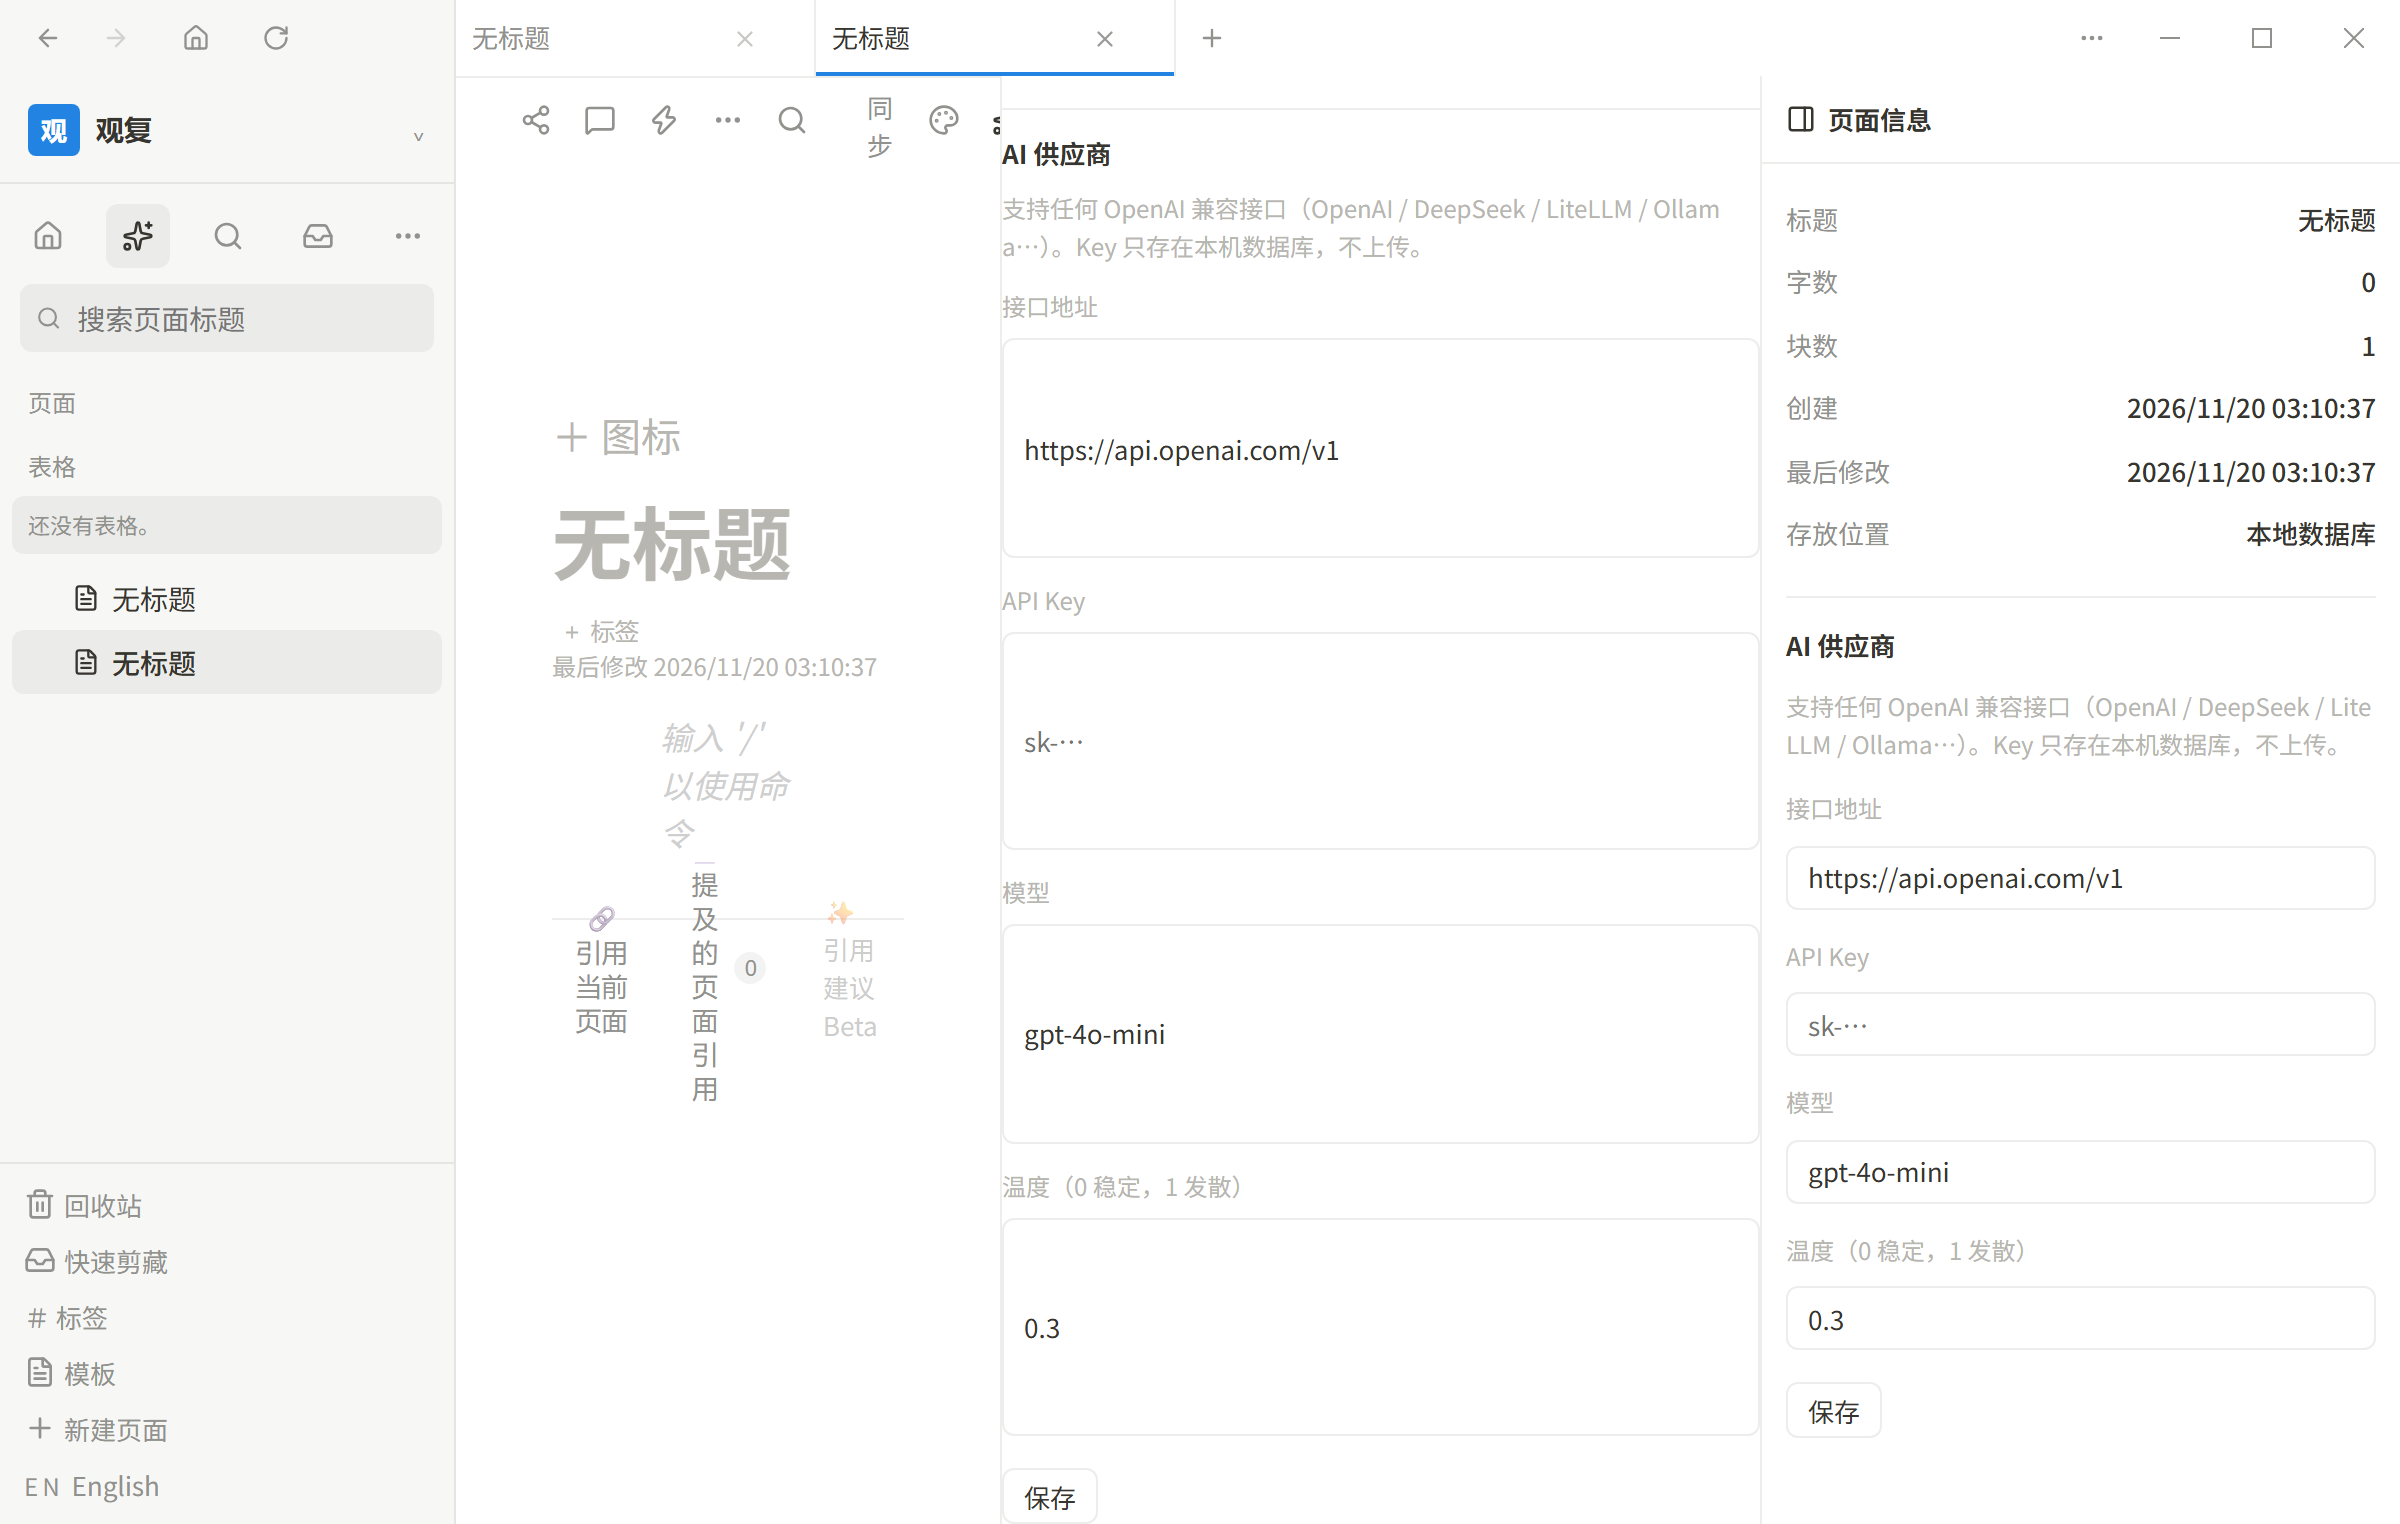
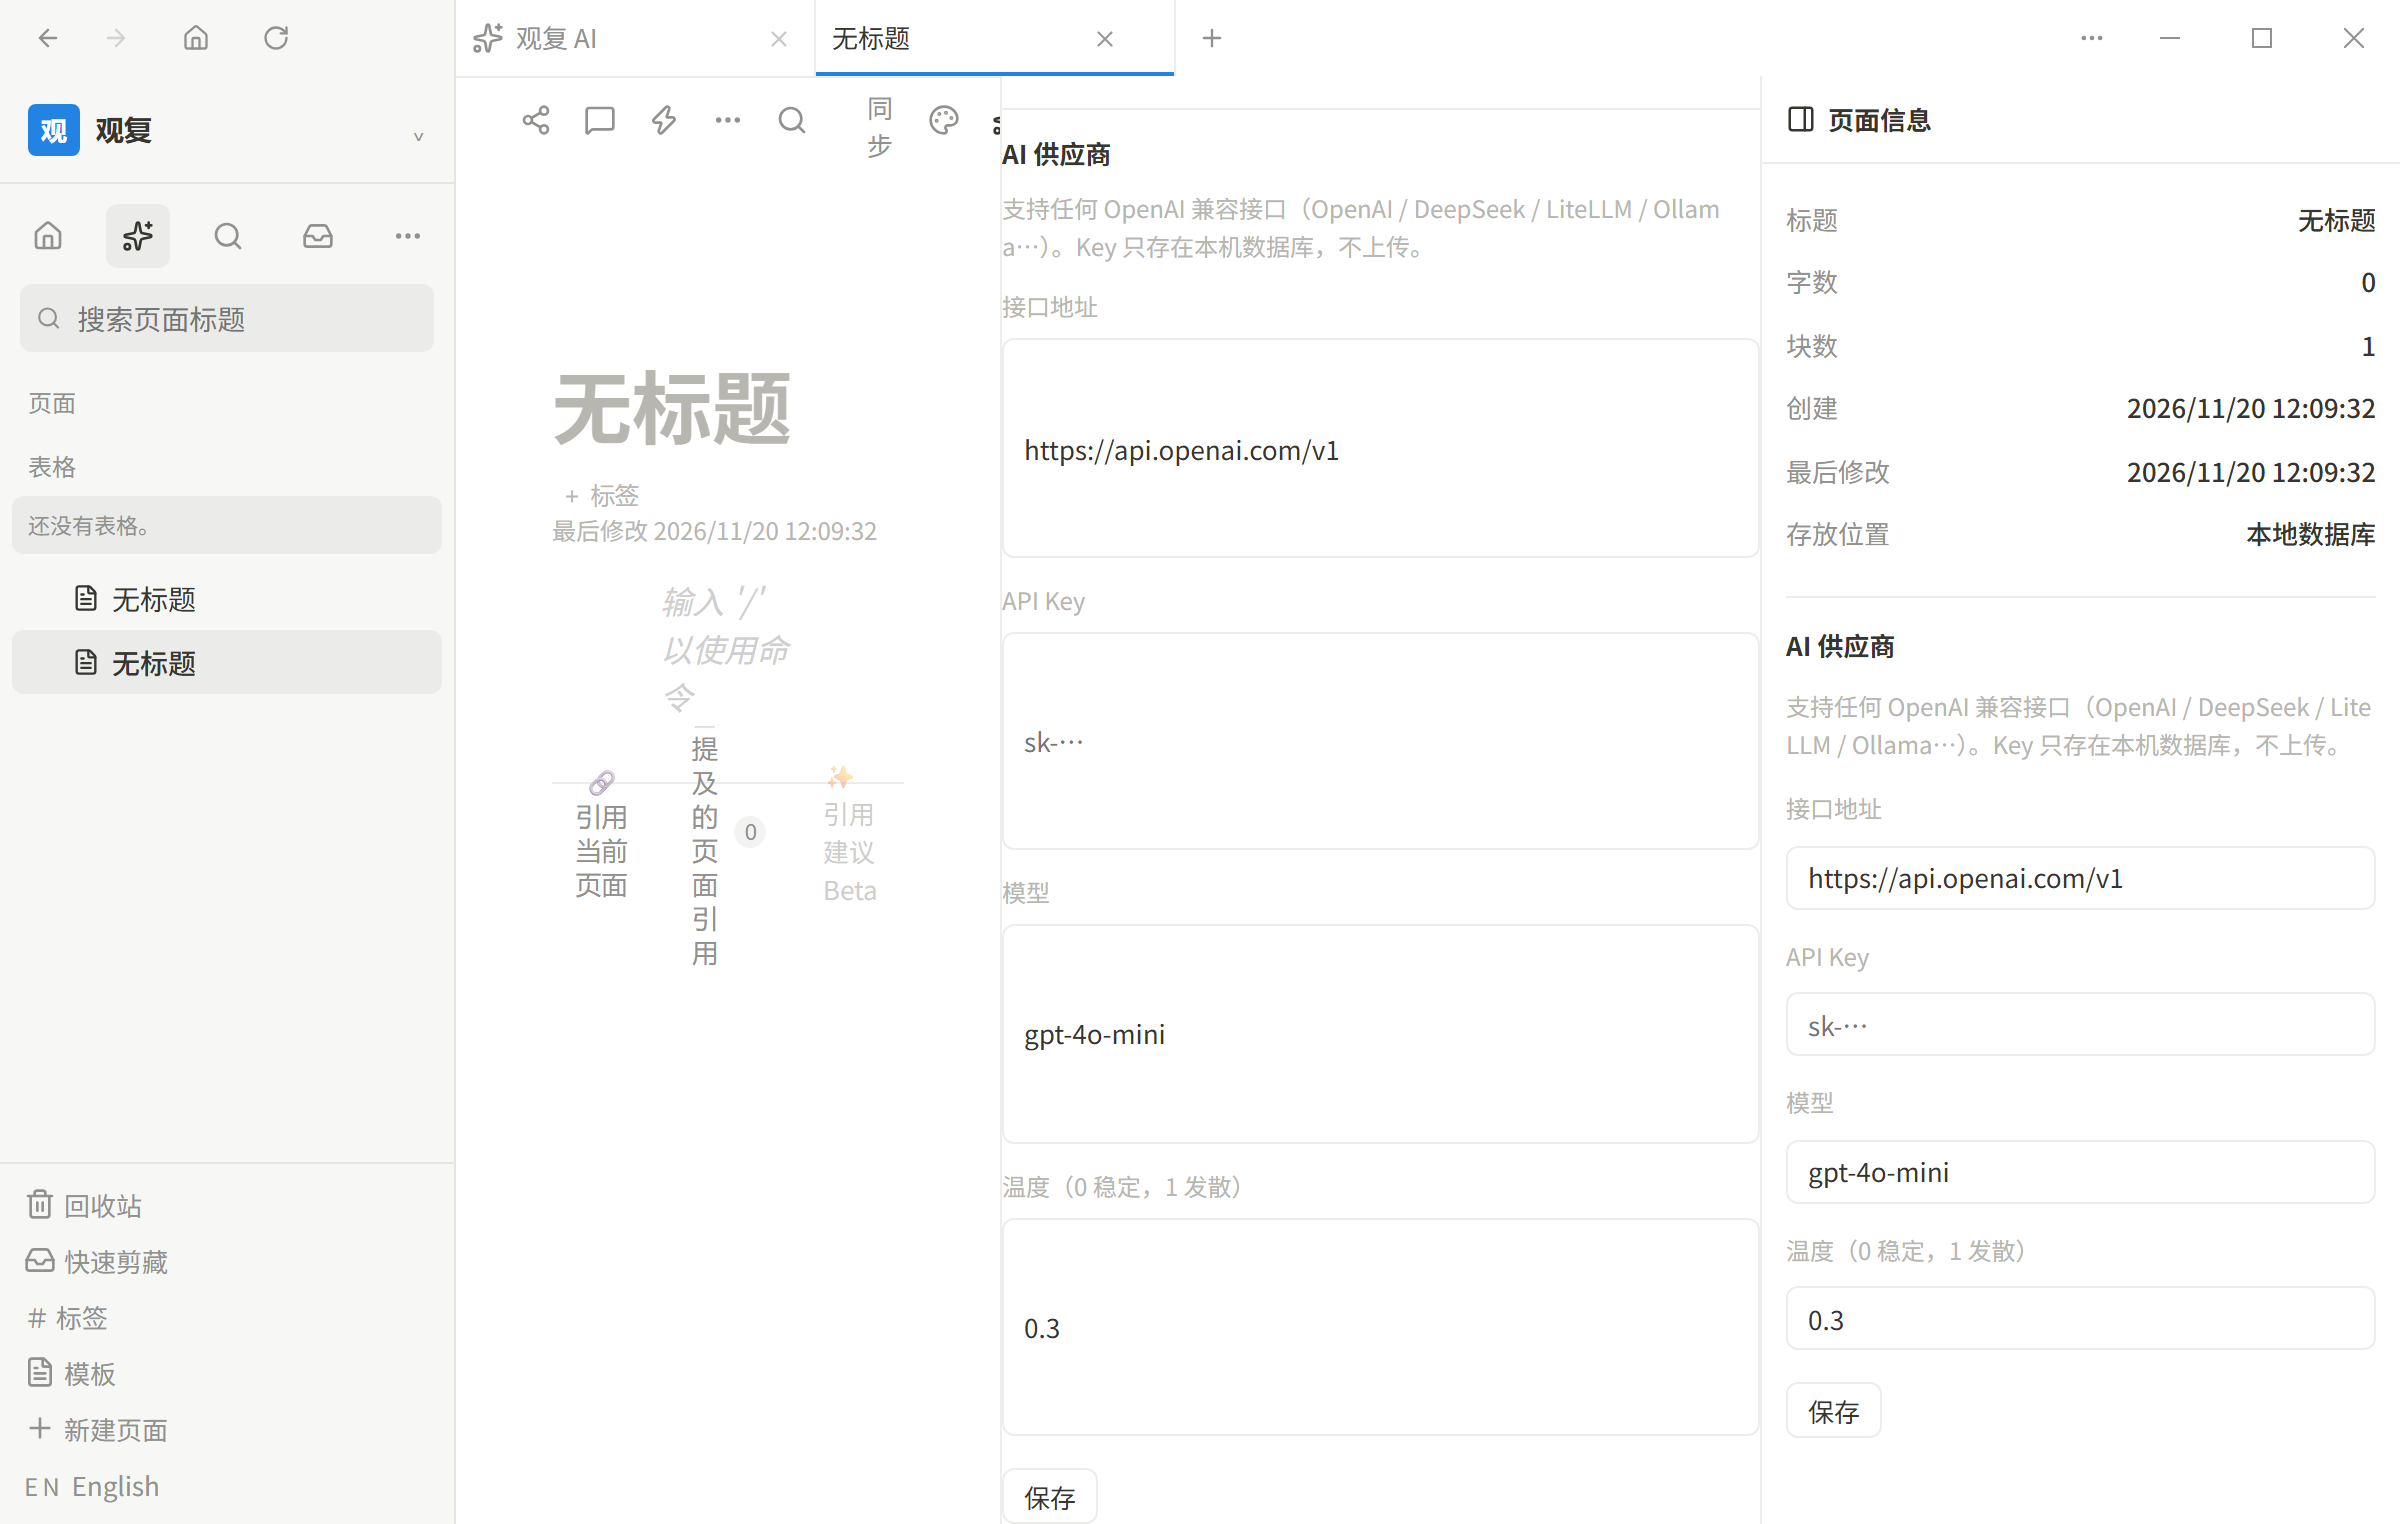
W96 DONE：AI 整体走查——五点验全复跑，修两真回归（W93 入口链）：①dispatchAiCommand 只开旧 rightPanelOpen 没接 W90 独立 aiPanelOpen，命令派发后 AI 面板不挂载→改开 aiPanelOpen；②selection 预填 chatRef.prefill 一次性推送，未配供应商时配置表单覆盖 chat tab 致 AiChatView 卸载重建推送必丢→改拉取式 pendingPrefill+initialInput（挂载消费+消费即清）；store.test 断言同步 W90 新语义；五点验全绿+272 绿 build 过，W9

diff --git a/app/src/shell/AiPanel.tsx b/app/src/shell/AiPanel.tsx
@@ -93,6 +93,8 @@ export function AiPanel({
 
   /** W94：对话栏抽成 AiChatView（与桌面主页共用），对话状态/流式/落库/历史都在那里 */
   const chatRef = useRef<AiChatHandle | null>(null);
+  /** W93 选区转面板的待预填文本：拉取式消费（配置表单覆盖 chat tab 导致卸载重建也不丢） */
+  const [pendingPrefill, setPendingPrefill] = useState<string | null>(null);
 
   const [mcpServers, setMcpServers] = useState<McpServerConfig[]>([]);
   const [mcpEditor, setMcpEditor] = useState<McpServerConfig | null>(null);
@@ -232,12 +234,20 @@ export function AiPanel({
       void runAsk(q);
     } else if (command.kind === "selection") {
       // W93：选中文字弹层「在 AI 面板继续问」——选中原文预填进对话输入，发送即带上下文
+      // 不用 chatRef.prefill 推送：未配置供应商时配置表单会覆盖 chat tab，AiChatView
+      // 卸载重建后一次性推送必丢——改成 pendingPrefill 状态拉取，挂载时消费
       setTab("chat");
       const sel = (command.text ?? "").trim();
-      if (sel) chatRef.current?.prefill(`关于这段文字：「${sel}」`);
+      if (sel) setPendingPrefill(`关于这段文字：「${sel}」`);
     }
     clearCommand();
   }, [command]);
+
+  // pendingPrefill 已被 AiChatView 挂载消费（initialInput 只在 useState 初始化读一次），
+  // 清掉避免之后切页签重挂载时重复带上旧选区文本
+  useEffect(() => {
+    if (pendingPrefill && chatRef.current) setPendingPrefill(null);
+  }, [pendingPrefill, tab, editingConfig]);
 
   const runSkill = async (skill: AiSkill) => {
     if (!config) return;
@@ -471,6 +481,7 @@ export function AiPanel({
       {tab === "chat" && (
         <AiChatView
           ref={chatRef}
+          initialInput={pendingPrefill}
           pageId={contextKey ? null : (page?.id ?? null)}
           pageTitle={pageTitle || null}
           pageText={pageText || null}

diff --git a/app/src/shell/AiChatView.tsx b/app/src/shell/AiChatView.tsx
@@ -52,6 +52,9 @@ export const AiChatView = forwardRef<
     hideInput?: boolean;
     /** 面板的 MCP 页签会增删服务器，宿主把列表传下来保持同步 */
     mcpServers?: McpServerConfig[];
+    /** 挂载时的初始输入（选区「在 AI 面板继续问」走拉取式预填：面板被配置表单覆盖导致
+        本组件卸载重建时，ref 推送必丢，宿主把待预填文本作为 prop 传进来才接得住） */
+    initialInput?: string | null;
     /** 侧栏形态的 » 收起面板钮；不传就不显示 */
     onCollapse?: () => void;
   }
@@ -68,13 +71,14 @@ export const AiChatView = forwardRef<
     hideInput,
     mcpServers = [],
     onCollapse,
+    initialInput,
   },
   ref
 ) {
   const { t } = useLang();
   const [config, setConfig] = useState<AiConfig | null>(null);
   const [messages, setMessages] = useState<ChatMessage[]>([]);
-  const [chatInput, setChatInput] = useState("");
+  const [chatInput, setChatInput] = useState(initialInput ?? "");
   const [withPage, setWithPage] = useState(true);
   const [toolTrace, setToolTrace] = useState<string[]>([]);
   const [busy, setBusy] = useState(false);

diff --git a/app/src/data/store.ts b/app/src/data/store.ts
@@ -991,11 +991,13 @@ export const useStore = create<Store>((set, get) => {
       autoTimer = null;
     },
 
-    dispatchAiCommand: (command) => {      // 面板关着也要接得住命令：顺手打开右侧面板，命令不会丢
+    dispatchAiCommand: (command) => {      // 面板关着也要接得住命令：顺手打开 AI 面板，命令不会丢
+      // W90 起 AI 对话入口是独立挤压式 aiPanelOpen（W90 回归修复：旧逻辑只开 rightPanelOpen，
+      // 面板不挂载 → chatRef 永远 null → selection 预填静默丢失）
       set({ aiCommand: command });
-      if (!get().rightPanelOpen) {
-        set({ rightPanelOpen: true });
-        savePrefs({ rightPanelOpen: true });
+      if (!get().aiPanelOpen) {
+        set({ aiPanelOpen: true });
+        savePrefs({ aiPanelOpen: true });
       }
     },
 

diff --git a/app/src/data/store.test.ts b/app/src/data/store.test.ts
@@ -142,11 +142,11 @@ describe("应用状态", () => {
 });
 
 describe("AI 命令通道", () => {
-  it("斜杠命令写进 store，面板关着也会顺手打开右侧面板", () => {
-    useStore.setState({ rightPanelOpen: false, aiCommand: null });
+  it("斜杠命令写进 store，面板关着也会顺手打开 AI 面板（W90 起对话入口是 aiPanelOpen）", () => {
+    useStore.setState({ rightPanelOpen: false, aiPanelOpen: false, aiCommand: null });
     s().dispatchAiCommand({ kind: "summary" });
     expect(s().aiCommand).toEqual({ kind: "summary" });
-    expect(s().rightPanelOpen).toBe(true);
+    expect(s().aiPanelOpen).toBe(true);
     s().clearAiCommand();
     expect(s().aiCommand).toBeNull();
   });

diff --git a/ops/执行报告-v7.md b/ops/执行报告-v7.md
@@ -92,3 +92,5 @@
 - [2026-11-20 08:40] W94 | DONE: 桌面主页=AI 对话页（06 号 §1）——修复残留实现三处真 bug：①store.hydrate 把常驻 HOME_TAB 当死页签滤掉（刷新丢主页签），并让空库首启落主页（06 §2「开屏第一眼」），删尽页面落主页；②AiChatView 的 config 是挂载快照，挂载后才配置供应商则首条静默发不出（sendChat 补读配置+无配置给错误提示不再静默）；③W94 抽取 AiChatView 时丢失 W91「刷新/换页自动恢复最近会话」语义（补挂载恢复 effect，按 pageId 取最近会话回填）。另：页签标题/浮钮 title/面板 aria 三处「FlowUs AI」→「观复 AI」【暂定】观复自有（06 §1 页签显示 AI 产品名，竞品品牌字不照录）。新增 tools/homeai-check.mjs（npm run homeai-check，自带 mock SSE 网关、链路全真模型假）：8 断言全过——主页空态形态（居中 logo+6 chips+大输入框、无文档顶栏）/chip 预填/首条消息切对话形态+流式全文/刷新会话恢复/主页钮已在主页无反应/离页后点回主页，3 截图。回归：W92 ai-history-check PASS、npm test 272 绿、check 过、build 964ms。【暂定】chip=预填提示词（规格未记录 chip 行为）；深色主页形态未采（规格 06 遗留项 7）| 证据: docs/验收证据/重做批/W94/
 - [2026-11-20 08:43] 看门狗0800(v8·r2) | 轮次收尾: 本轮领取并收口 W94（见上 DONE 行），5748d96 已 push GitHub+Gitee，T-W94.lock 已删，上下文已长不续领；下一轮从 W95（首页其余形态）起领，锁目录现仅 T-A03/T-S（他人命名空间勿动）
 - [2026-11-20 10:05] W95 | 收口: 首页其余形态——①404 空态（🎉 欢迎使用 + ＋ 创建新页面，居中）接手上一会话半成品并修两真 bug：flex 居中链断裂（.page/.page__inner 非 flex 容器致 justify-content 失效→补齐 flex column 链）、建页死页签复用（createPage 默认 openTab 新开签致 2→3，改为复用死签 open+closeTab 恢复原数）；②通知面板 W28 已有（图标行第 4 钮→顶部浮层），对照 06 号 §3 规格核验符合；③最近浏览入口：06 号 §2 明示桌面无 /recent 路由无入口（/recent→404），无需实现。修 notfound-check.mjs 后两断言 PASS；npm test 272 绿、build 过【暂定】无新增 | 证据: docs/验收证据/重做批/W95/404-空态.png、404-建页恢复.png
+- [2026-11-20 12:15] W96 | 收口: AI 整体走查——五点验全复跑（ai-panel/ai-history/ai-chat/homeai 四绿直过；ai-entry 挂→修两真回归）：①dispatchAiCommand 只开旧 rightPanelOpen 没接 W90 独立 aiPanelOpen（命令派发后 AI 面板不挂载）→ 改开 aiPanelOpen；②selection 预填用 chatRef.prefill 一次性推送，未配供应商时配置表单覆盖 chat tab 致 AiChatView 卸载重建、推送必丢 → 改拉取式 pendingPrefill+initialInput prop（挂载消费+消费即清防重复）。同步更新 store.test 断言 W90 新语义。修后 ai-entry 六断言全过；36 文件 272 绿、build 过 | 证据: docs/验收证据/重做批/W96/AI走查-面板打开.png、W93/选区转面板-带原文.png
+- [2026-11-20 12:15] W96 | 收口: AI 整体走查——五点验全复跑（ai-panel/ai-history/ai-chat/homeai 四绿直过；ai-entry 挂→修两真回归）：①dispatchAiCommand 只开旧 rightPanelOpen 没接 W90 独立 aiPanelOpen（命令派发后 AI 面板不挂载）→ 改开 aiPanelOpen；②selection 预填用 chatRef.prefill 一次性推送，未配供应商时配置表单覆盖 chat tab 致 AiChatView 卸载重建、推送必丢 → 改拉取式 pendingPrefill+initialInput prop（挂载消费+消费即清防重复）。同步更新 store.test 断言 W90 新语义。修后 ai-entry 六断言全过；36 文件 272 绿、build 过 | 证据: docs/验收证据/重做批/W96/AI走查-面板打开.png、W93/选区转面板-带原文.png

diff --git a/开发任务表-v3.5-重做批.md b/开发任务表-v3.5-重做批.md
@@ -168,7 +168,7 @@
 | W93 | ⚡ 入口语义 | 选中文字 ⚡ 弹层语义按规格修正（`SelectionAi`/`AiAskBox` 对齐） | 35 | DONE 📦 |
 | W94 | 桌面主页=AI chat | 首页形态按 06 号规格（桌面主页为 AI 对话页）；真实对话可用 | 40 | DONE |
 | W95 | 首页其余形态 | 通知/404 空态/最近浏览入口按 06 号规格；窄口版【暂定】可 | 35 | DONE |
-| W96 | AI 整体走查 | 面板/历史/⚡/首页全走查截图 | 30 | TODO |
+| W96 | AI 整体走查 | 面板/历史/⚡/首页全走查截图 | 30 | DONE |
 
 ## 模块 W8 · 设置与账号——依据手册 §8 + `docs/复刻/11-模块9`
 
